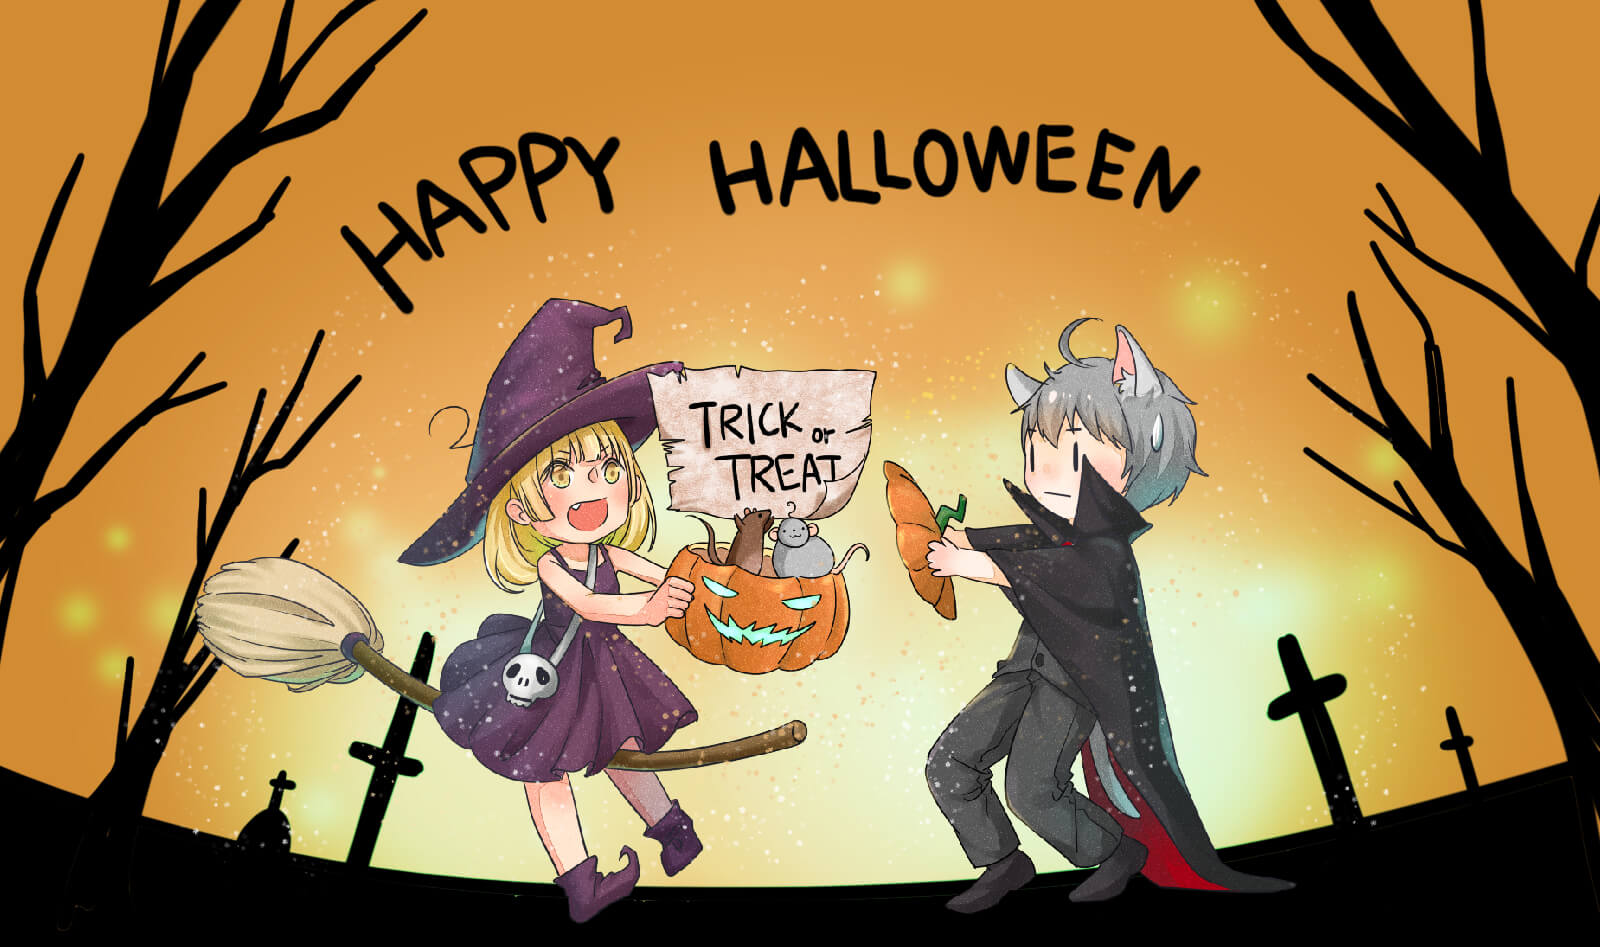
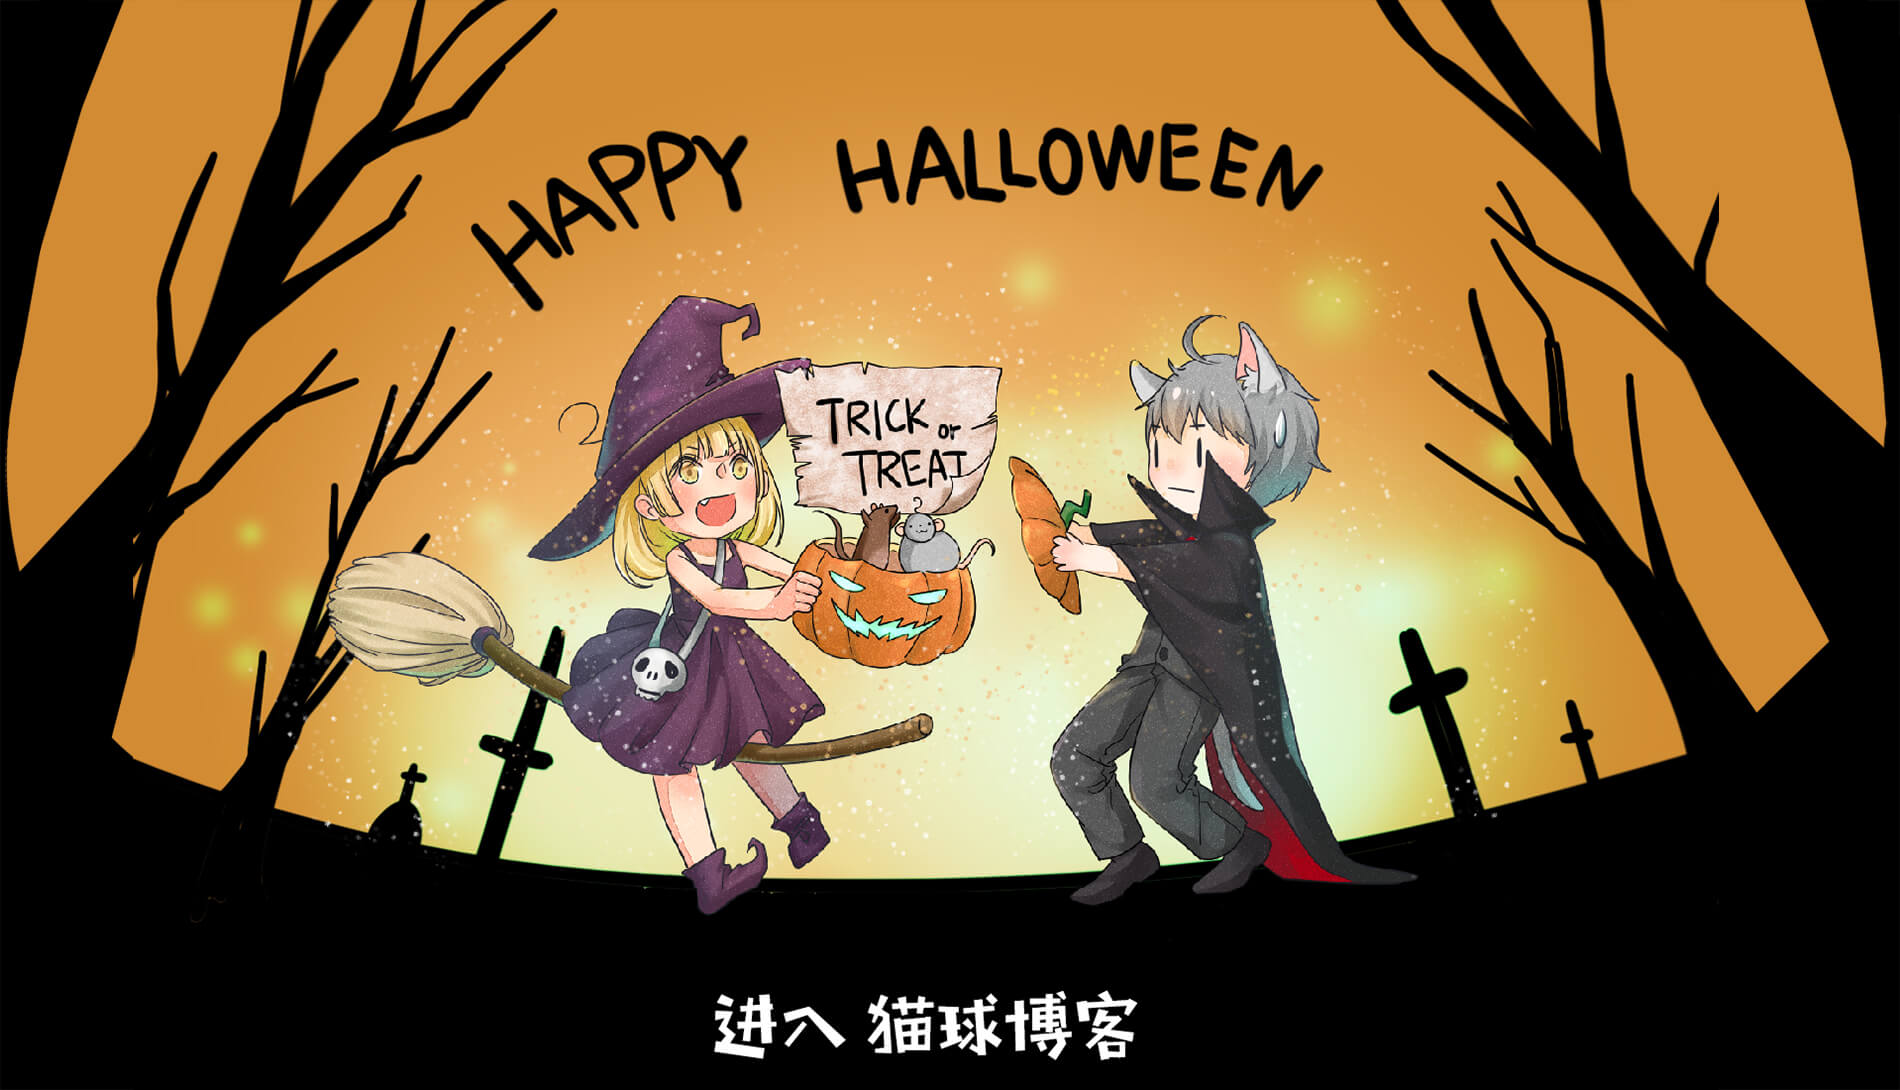
。

diff --git a/5/door/万圣节.html b/5/door/万圣节.html
@@ -2,38 +2,17 @@
 layout: o
 permalink: i/halloween
 ---
+<body onclick="跳转()">
 <style>
-    *{margin: 0;padding: 0;}
-    body{background-color: #000000;text-align:center;}
+    *{margin: 0;padding: 0;cursor:pointer;}
+    body{text-align:center;background:url('/5/door/万圣节.jpg') no-repeat center top;background-color: #000000;background-size: 100vh;}
     a{text-decoration:none;color:#bbbbbb;cursor:pointer;}a:hover,a:focus{color:#ffffff;}a img:hover,a img:focus{cursor:pointer;}
-    #img{background-image:url('/5/door/万圣节.jpg');}
-    @media screen and (min-width: 768px) {#img{width:70%;}}
-    @media screen and (max-width: 767px) {#img{width:97%;}}
-    #code{
-		width:40%;
-		min-width:450px;
-		height:450px;
-		background-color:rgba(0, 0, 0, 0.3);
-		position:fixed;
-		left:30%;
-		top:20%;
-		border-radius: 10px;
-		font-size:16px;
-		line-height:22px;
-	}
-	#author{
-		position: fixed;
-		bottom: 10px;
-		left: 48%;
-	}
-	#author a{
-		text-decoration: none;}
+    @media screen and (min-width: 768px) {body{width:70%;}}
+    @media screen and (max-width: 767px) {body{width:97%;}}
 </style>
-<div id="img"></div>
-
    <script src="/5/new/snow/ThreeCanvas.js"></script>
-   <script src="/5/new/snow//Snow.js"></script>
-   <script src="/5/new/snow//snowFall.js"></script>
+   <script src="/5/new/snow/Snow.js"></script>
+   <script src="/5/new/snow/snowFall.js"></script>
    <script>
        $.snowFall({
            //创建粒子数量，密度
@@ -53,7 +32,12 @@ permalink: i/halloween
            wind_weight:0
            });
 
-        let num = 7;let s = window.setInterval(function(){num--;if(num<=0){window.parent.location.href = "{{ site.mq_i }}";}}, 1000);
+           function 跳转(){
+            window.parent.location.href = "{{ site.mq_i }}";
+           }
+
+        // let num = 7;let s = window.setInterval(function(){num--;if(num<=0){window.parent.location.href = "{{ site.mq_i }}";}}, 1000);
    </script>
    <canvas>
    </canvas>
+   </body>

diff --git a/blog/笔记/酒仙笔记/魔幻厨房.html b/blog/笔记/酒仙笔记/魔幻厨房.html
@@ -17,6 +17,7 @@ body{
 .qbt{color:#ECECD2;}
 
 h5{display:inline;font-size:1.05em;background-color: #6ECAD9;color:#3A515A;padding:1px 50px;}
+.h5{display:inline;font-size:1.05em;background-color: #6ECAD9;color:#3A515A;padding:1px 50px;}
 .jiu_a{color:#B09370;}
 </style>
 未完成<br>
@@ -27,13 +28,26 @@ h5{display:inline;font-size:1.05em;background-color: #6ECAD9;color:#3A515A;paddi
 <span class="jiu_a">绝佳匹配经验30</span><br>
 <span class="jiu_a">获取途径：</span>桃园。<br>
 <br>
-<h5>极品绍兴酒</h5><br>
+
+<h5>极品黄酒</h5><br>
+“极品黄酒，世界上最古老的酒类之一，以大米、黍米、栗为原料。用于菜谱合成的道具。”<br>
+<span class="jiu_a">获取途径：</span>商店、桃园。<br>
+<br>
+
+<h5>绍兴酒</h5><br>
 “绍兴酒，又称绍兴黄酒，随着时间的久远而更为浓烈，越陈越香。用于菜谱升级的道具。”<br>
 <span class="jiu_a">绝佳匹配经验30</span><br>
 <span class="jiu_a">获取途径：</span>桃园。<br>
 <br>
+
 <h5>极品绍兴酒</h5><br>
 “极品绍兴酒，又称绍兴黄酒，随着时间的久远而更为浓烈，越陈越香。用于菜谱合成的道具。”<br>
 <span class="jiu_a">获取途径：</span>商店、桃园。<br>
 <br>
 
+<h3>和酒相关的道具</h3>
+
+<span class="h5">绍兴酒种子</span><br>
+“绍兴酒种子，可培养出绍兴酒食材（普通或极品）。”<br>
+<span class="jiu_a">获取途径：</span>种子商店。<br>
+<br>

diff --git a/index.html b/index.html
@@ -16,7 +16,6 @@ let a=new Array(
 );
 let b={
 "9.18":["wwgc_mjls"],
-"10.31":["halloween"],
 "12.13":["wwgc_mjls"],
 "12.23":["christmas_count_down"],
 "12.24":["christmas_count_down"],
